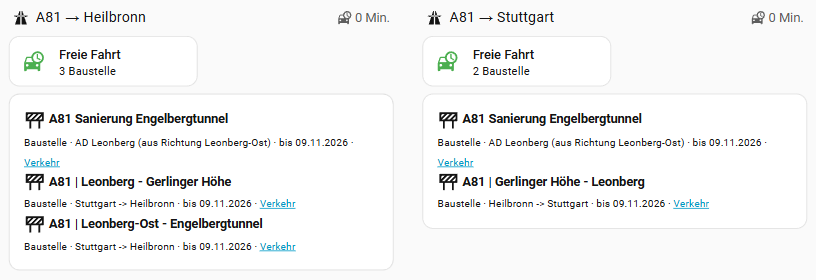
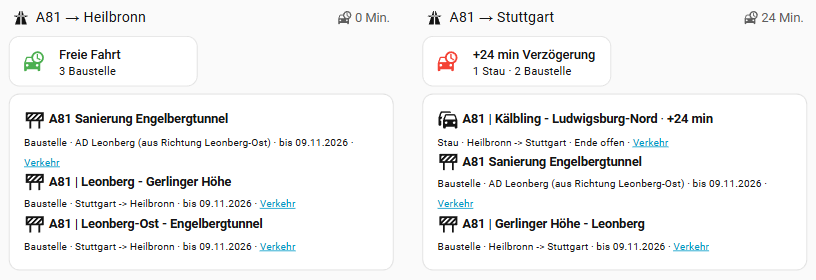
README: Langzeitstatistik, Dashboard-Bilder mit echtem Stau; Backlog aktualisiert
- Statistik-Karte für den Reisezeitverlust pro Woche/Monat (der Sensor hat
  state_class measurement, HA führt die Langzeitstatistik ohnehin)
- Dashboard-Bilder zur Rushhour neu aufgenommen
- Backlog: Quellen ausgeschöpft, Deduplizierung dringlicher, eigene
  Kartenkarte geplant, Erledigtes markiert

diff --git a/docs/ENTWICKLUNG.md b/docs/ENTWICKLUNG.md
@@ -210,10 +210,11 @@ Verkehrsmeldungen der LMS BW über MobiData BW, **dl-de/by-2.0**, ~75 KB gzip, E
 
 ## 6. Backlog
 
-- **Weitere Datenquellen:** Planung und geprüfte Endpunkte in [`DATENQUELLEN.md`](DATENQUELLEN.md). Der norddeutsche WFS ist umgesetzt; weitere WFS-Quellen (Rheinland-Pfalz, Brandenburg, Sachsen-Anhalt, Städte) können auf `providers/wfs.py` aufbauen.
-- **Kartenansicht:** eigene Lovelace-Karte mit der ohnehin vorhandenen Geometrie.
-- **Strecke statt Kreis:** Korridor entlang einer Route (aus dem Beta-Test).
+Stand 2026-10-19. Datenquellen gelten vorerst als ausgeschöpft (Städte-Sweep und TomTom-Prüfung in [`DATENQUELLEN.md`](DATENQUELLEN.md)); gelegentlich erneut prüfen: Rhein-Main/ivm (Timeout), Herne (Serverfehler), Heidelberg (404).
+
+- **Deduplizierung** zwischen Quellen, nur bei gleicher Straße (siehe Entscheidungen). Seit LMS BW, MobiData BW und Stadt Stuttgart dieselben Sperrungen melden, dringlicher.
+- **Strecke statt Kreis:** Korridor entlang einer Route aus Wegpunkten (Wunsch aus dem Beta-Test). Knackpunkt: Eingabe im Dialog, HA hat keinen Linien-Selektor.
 - **Autobahn-Abschnitte** („A81 zwischen AS X und AS Y“): Abschnittsnamen sind Freitext – zugunsten der Fahrtrichtungen zurückgestellt.
-- **Deduplizierung** nur bei gleicher Straße (siehe Entscheidungen).
-- **Langzeitstatistik**, z. B. Reisezeitverlust pro Monat.
-- **Bekanntmachen:** erst simon42 Community, danach HA Community (Custom Integrations); später ggf. Awesome Home Assistant und die HACS-Default-Liste.
+- **Eigene Lovelace-Karte** mit den Geometrien (Linien und Flächen in Farben je Art, Popup, Kreis des Bereichs; von der Integration mitgeliefert, Geometrien über eine eigene Schnittstelle): geplant als nächstes größeres Stück (2026-10-19). Vorher: Kartenpunkte per `geo_location` mit Symbol je Art statt Namenskürzel und ein Kartenbild für die README.
+- **Bekanntmachen:** simon42 Community erledigt (Vorstellung, Updates zu 0.2.0 und 0.3–0.5); als Nächstes HA Community (Custom Integrations), später ggf. Awesome Home Assistant und die HACS-Default-Liste.
+- Erledigt: Langzeitstatistik (der Sensor „Reisezeitverlust“ hat `state_class: measurement`, README zeigt die Statistik-Karte), Kartenansicht per `geo_location`, weitere Datenquellen.

diff --git a/README.md b/README.md
@@ -288,6 +288,25 @@ cards:
         name: Arbeitsweg
 ```
 
+### Reisezeitverlust auf lange Sicht
+
+Home Assistant speichert für den Sensor „Reisezeitverlust“ automatisch Langzeitstatistiken. Die Statistik-Karte zeigt damit z. B. pro Woche den Durchschnitt und den schlimmsten Stau – praktisch, um zu sehen, ob eine Baustelle die Strecke dauerhaft bremst:
+
+```yaml
+type: statistics-graph
+title: Reisezeitverlust pro Woche
+entities:
+  - sensor.streckenwacht_arbeitsweg_travel_time_loss
+period: week
+days_to_show: 90
+stat_types:
+  - mean
+  - max
+chart_type: bar
+```
+
+Der Durchschnitt enthält auch die staufreien Stunden (nachts 0 Minuten) und fällt deshalb niedrig aus; aussagekräftiger ist meist das Maximum. Mit `period: month` und `days_to_show: 365` gibt es den Jahresüberblick.
+
 ### Kalender im Dashboard
 
 ```yaml

diff --git a/README.en.md b/README.en.md
@@ -290,6 +290,25 @@ cards:
         name: Commute
 ```
 
+### Travel time loss in the long run
+
+Home Assistant automatically keeps long-term statistics for the "travel time loss" sensor. The statistics graph card can show, for example, the weekly average and the worst jam – handy to see whether roadworks slow down the route for good:
+
+```yaml
+type: statistics-graph
+title: Travel time loss per week
+entities:
+  - sensor.streckenwacht_commute_travel_time_loss
+period: week
+days_to_show: 90
+stat_types:
+  - mean
+  - max
+chart_type: bar
+```
+
+The average includes the jam-free hours (0 minutes at night) and is therefore low; the maximum usually says more. Use `period: month` and `days_to_show: 365` for a yearly overview.
+
 ### Calendar on the dashboard
 
 ```yaml
